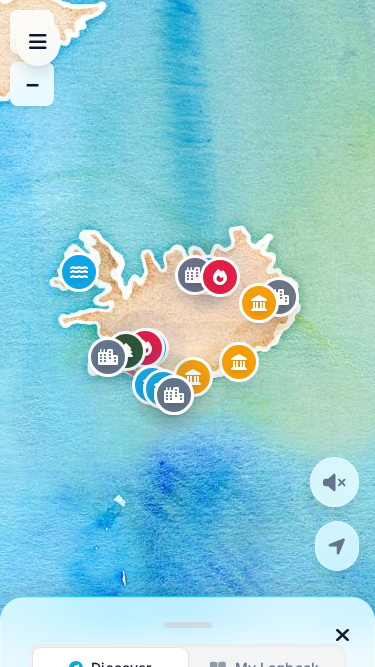
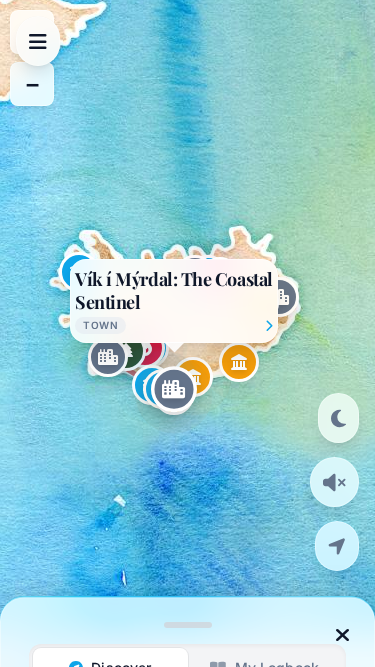
feat: Add night mode, aurora and vignette overlays
Adds visually enriching and clutter-free features to the map:
- A "Night Mode" toggle button allowing users to switch to a dark map theme.
- The dark map theme uses CSS filters applied to the map tiles.
- An animated CSS Aurora Borealis effect that displays behind the map interface while in Night Mode.
- A dynamic Vignette radial gradient overlay that focuses user attention on the active Point of Interest when selected.

Changed region(s): [[0.176, 0.3898, 0.7627, 0.6297], [0.8507, 0.5697, 0.968, 0.6897]]

diff --git a/index.html b/index.html
@@ -138,7 +138,40 @@
             background: rgba(100, 116, 139, 0.6);
         }
 
+        /* Vignette Overlay */
+        #vignette-overlay {
+            position: absolute;
+            top: 0; left: 0; width: 100%; height: 100%;
+            pointer-events: none;
+            z-index: 7; /* Above aurora, below UI */
+            opacity: 0;
+            transition: opacity 1.5s ease-in-out;
+            background: radial-gradient(circle at center, transparent 30%, rgba(0, 0, 0, 0.6) 100%);
+        }
+
         /* Atmospheric Overlay */
+        /* Aurora Overlay */
+        #aurora-overlay {
+            position: absolute;
+            top: 0; left: 0; width: 100%; height: 100%;
+            pointer-events: none;
+            z-index: 6; /* Above atmosphere, below UI */
+            opacity: 0;
+            transition: opacity 2s ease-in-out;
+            background:
+                linear-gradient(120deg, rgba(0, 255, 128, 0.1) 0%, transparent 40%),
+                linear-gradient(240deg, rgba(128, 0, 255, 0.1) 0%, transparent 40%),
+                linear-gradient(0deg, rgba(0, 128, 255, 0.1) 0%, transparent 40%);
+            mix-blend-mode: screen;
+            background-size: 200% 200%;
+            animation: aurora-sweep 15s ease infinite alternate;
+        }
+        @keyframes aurora-sweep {
+            0% { background-position: 0% 50%; }
+            50% { background-position: 100% 50%; }
+            100% { background-position: 0% 50%; }
+        }
+
         #atmosphere-overlay {
             position: absolute;
             top: 0; left: 0; width: 100%; height: 100%;
@@ -149,6 +182,11 @@
             opacity: 0.2;
             mix-blend-mode: overlay;
             animation: drift 60s linear infinite;
+        }
+
+        /* Dark Mode Map Filter */
+        .map-dark-mode .leaflet-tile-pane {
+            filter: invert(100%) hue-rotate(180deg) brightness(95%) contrast(90%);
         }
         @keyframes drift {
             0% { background-position: 0 0; }
@@ -296,8 +334,15 @@
             <div id="map"></div>
             <!-- Atmospheric Overlay -->
             <div id="atmosphere-overlay"></div>
+            <!-- Aurora Overlay -->
+            <div id="aurora-overlay"></div>
+            <!-- Vignette Overlay -->
+            <div id="vignette-overlay"></div>
              <button id="menu-button" class="md:hidden absolute top-4 left-4 glass-panel p-3 rounded-full shadow-lg z-30 text-brand-deep hover:text-brand-moss transition-all active:scale-95" aria-label="Open sidebar">
                 <i class="fas fa-bars fa-lg"></i>
+            </button>
+             <button id="night-mode-button" class="absolute bottom-56 right-4 md:bottom-40 md:right-8 glass-panel p-3 rounded-full shadow-lg z-30 text-brand-deep hover:text-brand-moss transition-all active:scale-95 group" aria-label="Toggle Night Mode">
+                <i id="night-mode-icon" class="fas fa-moon fa-lg text-brand-stone group-hover:text-brand-moss transition-colors"></i>
             </button>
              <button id="audio-toggle-button" class="absolute bottom-40 right-4 md:bottom-24 md:right-8 glass-panel p-3 rounded-full shadow-lg z-30 text-brand-deep hover:text-brand-moss transition-all active:scale-95 group" aria-label="Toggle Audio">
                 <i id="audio-toggle-icon" class="fas fa-volume-mute fa-lg text-brand-stone group-hover:text-brand-moss transition-colors"></i>

diff --git a/app.js b/app.js
@@ -78,6 +78,9 @@ let favorites = new Set();
 let activeCategory = 'All';
 let searchTerm = '';
 
+// --- NIGHT MODE STATE ---
+let isNightMode = false;
+
 // --- CINEMATIC TOUR STATE ---
 let tourInterval = null;
 let tourIndex = 0;
@@ -519,6 +522,20 @@ function createInitialSidebarContent() {
 }
 
 function resetSidebar() {
+    // Remove Vignette Effect
+    const vignetteOverlay = document.getElementById('vignette-overlay');
+    if (vignetteOverlay) vignetteOverlay.style.opacity = '0';
+
+    // Clear active marker
+    if (activeMarkerId && markers[activeMarkerId]) {
+        const prevMarker = markers[activeMarkerId];
+        const prevIcon = prevMarker.getIcon();
+        prevIcon.options.className = prevIcon.options.className.replace(' active-marker', '');
+        prevMarker.setIcon(prevIcon);
+        prevMarker.setZIndexOffset(0);
+        activeMarkerId = null;
+    }
+
     createInitialSidebarContent();
 }
 
@@ -709,12 +726,35 @@ function setupUIEventListeners(map) {
     const menuButton = document.getElementById('menu-button');
     const closeSidebarButton = document.getElementById('close-sidebar');
     const userLocationButton = document.getElementById('user-location-button');
+    const nightModeButton = document.getElementById('night-mode-button');
+    const nightModeIcon = document.getElementById('night-mode-icon');
     const audioToggleButton = document.getElementById('audio-toggle-button');
     const audioToggleIcon = document.getElementById('audio-toggle-icon');
     const poiContent = document.getElementById('poi-content');
     const handle = document.getElementById('sheet-handle');
     let userMarker;
     let userAccuracyCircle;
+
+    if (nightModeButton) {
+        nightModeButton.addEventListener('click', () => {
+            isNightMode = !isNightMode;
+
+            // Toggle map dark mode and aurora
+            const mapContainer = document.getElementById('map');
+            const auroraOverlay = document.getElementById('aurora-overlay');
+            if (isNightMode) {
+                mapContainer.classList.add('map-dark-mode');
+                if(auroraOverlay) auroraOverlay.style.opacity = '1';
+                nightModeIcon.classList.remove('fa-moon', 'text-brand-stone');
+                nightModeIcon.classList.add('fa-sun', 'text-amber-400');
+            } else {
+                mapContainer.classList.remove('map-dark-mode');
+                if(auroraOverlay) auroraOverlay.style.opacity = '0';
+                nightModeIcon.classList.remove('fa-sun', 'text-amber-400');
+                nightModeIcon.classList.add('fa-moon', 'text-brand-stone');
+            }
+        });
+    }
 
     if (audioToggleButton) {
         audioToggleButton.addEventListener('click', () => {
@@ -909,6 +949,10 @@ function navigateToPOI(poi) {
 
     // Play ambient sound
     AudioManager.playCategory(poi.category);
+
+    // Apply Vignette Effect
+    const vignetteOverlay = document.getElementById('vignette-overlay');
+    if (vignetteOverlay) vignetteOverlay.style.opacity = '1';
 
     updateSidebar(poi);
     setActiveMarker(poi.id);
